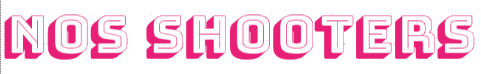
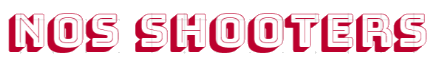
les titres et les pages d'Hugo (en mieux)

diff --git a/styles/style.css b/styles/style.css
@@ -35,7 +35,9 @@ body
 	box-shadow: 0 5px 8px 0 rgba(0, 0, 0, 0.2), 0 9px 26px 0 rgba(0, 0, 0, 0.19);
 	width:65%;
 	margin: auto;
-	 border-radius: 10px;
+	border-radius: 10px;
+	padding-top:10px;
+	padding-bottom:10px;
 	
 }
 

diff --git a/securite.php b/securite.php
@@ -18,45 +18,71 @@
 <html>
 	<!-- Début du corps -->  
 	<body>
-		<div class="container-fluid">
-			<center>
-				<h2>
-					Votre compte
-				</h2>
-			</center>
-		</div>
-
-		<div class="container">
-			<form action = "traitementChangementMdp.php" method = "post">
+		<div class="box">
+			<div class="container-fluid">
+				<center>
+					<h2>
+						<img src="Images/votre_compte.png">
+					</h2>
+				</center>
+			</div>
+		
+		
+			<div class="container">
 				<h2> Changement de votre mot de passe : </h2>
-				<fieldset>
-					<label>Mot de passe actuel: </label>
-					<input name="mdpActuel" type="text" size ="25" required ><br/> 
-					<label>Mot de passe souhaité: </label>
-					<input name="newMdp" type="text" size ="25" required ><br/> 
-					<label>Confirmer le mot de passe: </label>
-					<input name="confirmationMdp" type="text" size ="25" required ><br/> 
-					<input type = "submit"  name="cmdValider" value ="Confirmer">
-				</fieldset>
-			</form>
-			
-			<form action = "traitementSuppressionCompte.php" method = "post">
-				<h2> Suppression du compte : </h2>
-				<fieldset>
-					<label>Mot de passe actuel: </label>
-					<input name="mdpActuel" type="text" size ="25" required ><br/>  
-					<label>Confirmer le mot de passe: </label>
-					<input name="confirmationMdp" type="text" size ="25" required ><br/> 
-					<input type = "submit"  name="cmdValider" value ="Confirmer">
-				</fieldset>
-			</form>
-			
-			<form action = "historiqueCommandes.php" method = "post">
-				<h2> Historique des commandes : </h2>
-				<fieldset>					
-					<input type = "submit"  name="cmdValider" value ="Consultation de vos commandes ">
-				</fieldset>
-			</form>
+				<form action = "traitementChangementMdp.php" method = "post">
+					<table class="table">
+						<tbody>
+							<tr>
+								<td>Mot de passe actuel: </td>
+								<td><input class="input-sm form-control" name="mdpActuel" type="text" size ="25" required ></td>
+							</tr>
+							<tr>
+								<td>Mot de passe souhaité: </td>
+								<td><input class="input-sm form-control" name="newMdp" type="text" size ="25" required ></td>
+							</tr>
+							<tr>
+								<td>Confirmer le mot de passe: </td>
+								<td><input class="input-sm form-control" name="confirmationMdp" type="text" size ="25" required ></td>
+							</tr>
+							<tr>
+								<td><input class="btn btn-outline-dark" type = "submit"  name="cmdValider" value ="Confirmer"></td>
+								<td></td>
+							</tr>
+						</tbody>
+					</table>
+				</form>
+				
+				<form action = "traitementSuppressionCompte.php" method = "post">
+					<h2> Suppression du compte : </h2>
+					
+										<table class="table">
+						<tbody>
+							<tr>
+								<td>Mot de passe actuel: </td>
+								<td><input class="input-sm form-control" name="mdpActuel" type="text" size ="25" required ></td>
+							</tr>
+							<tr>
+								<td>Confirmer le mot de passe: </td>
+								<td><input class="input-sm form-control" name="confirmationMdp" type="text" size ="25" required ></td>
+							</tr>
+							<tr>
+								<td><input class="btn btn-outline-dark" type = "submit"  name="cmdValider" value ="Confirmer"></td>
+								<td></td>
+							</tr>
+						</tbody>
+					</table>
+						
+
+				</form>
+				
+				<form action = "historiqueCommandes.php" method = "post">
+					<h2> Historique des commandes : </h2>
+					<fieldset>					
+						<input class="btn btn-outline-dark" type = "submit"  name="cmdValider" value ="Consultation de vos commandes ">
+					</fieldset>
+				</form>
+			</div>
 		</div>
 		<?php include('include/footer.php');?>		
 	</body>

diff --git a/infos_utilisateurs.php b/infos_utilisateurs.php
@@ -29,9 +29,7 @@
 		<div class="box">
 			<div class="container-fluid">
 				<center>
-					<h2>
-						Vos informations
-					</h2>
+					<img src="Images/vos_infos.png">
 				</center>
 			</div>
 

diff --git a/panier.php b/panier.php
@@ -69,7 +69,6 @@
 					<label id = "nbreLignes" hidden>0</label><h5>
 					<br>
 					<a href="index.php" class="btn btn-dark">Continuer son panier</a>
-					<br><br>
 			</section>
 		</div>
 		';
